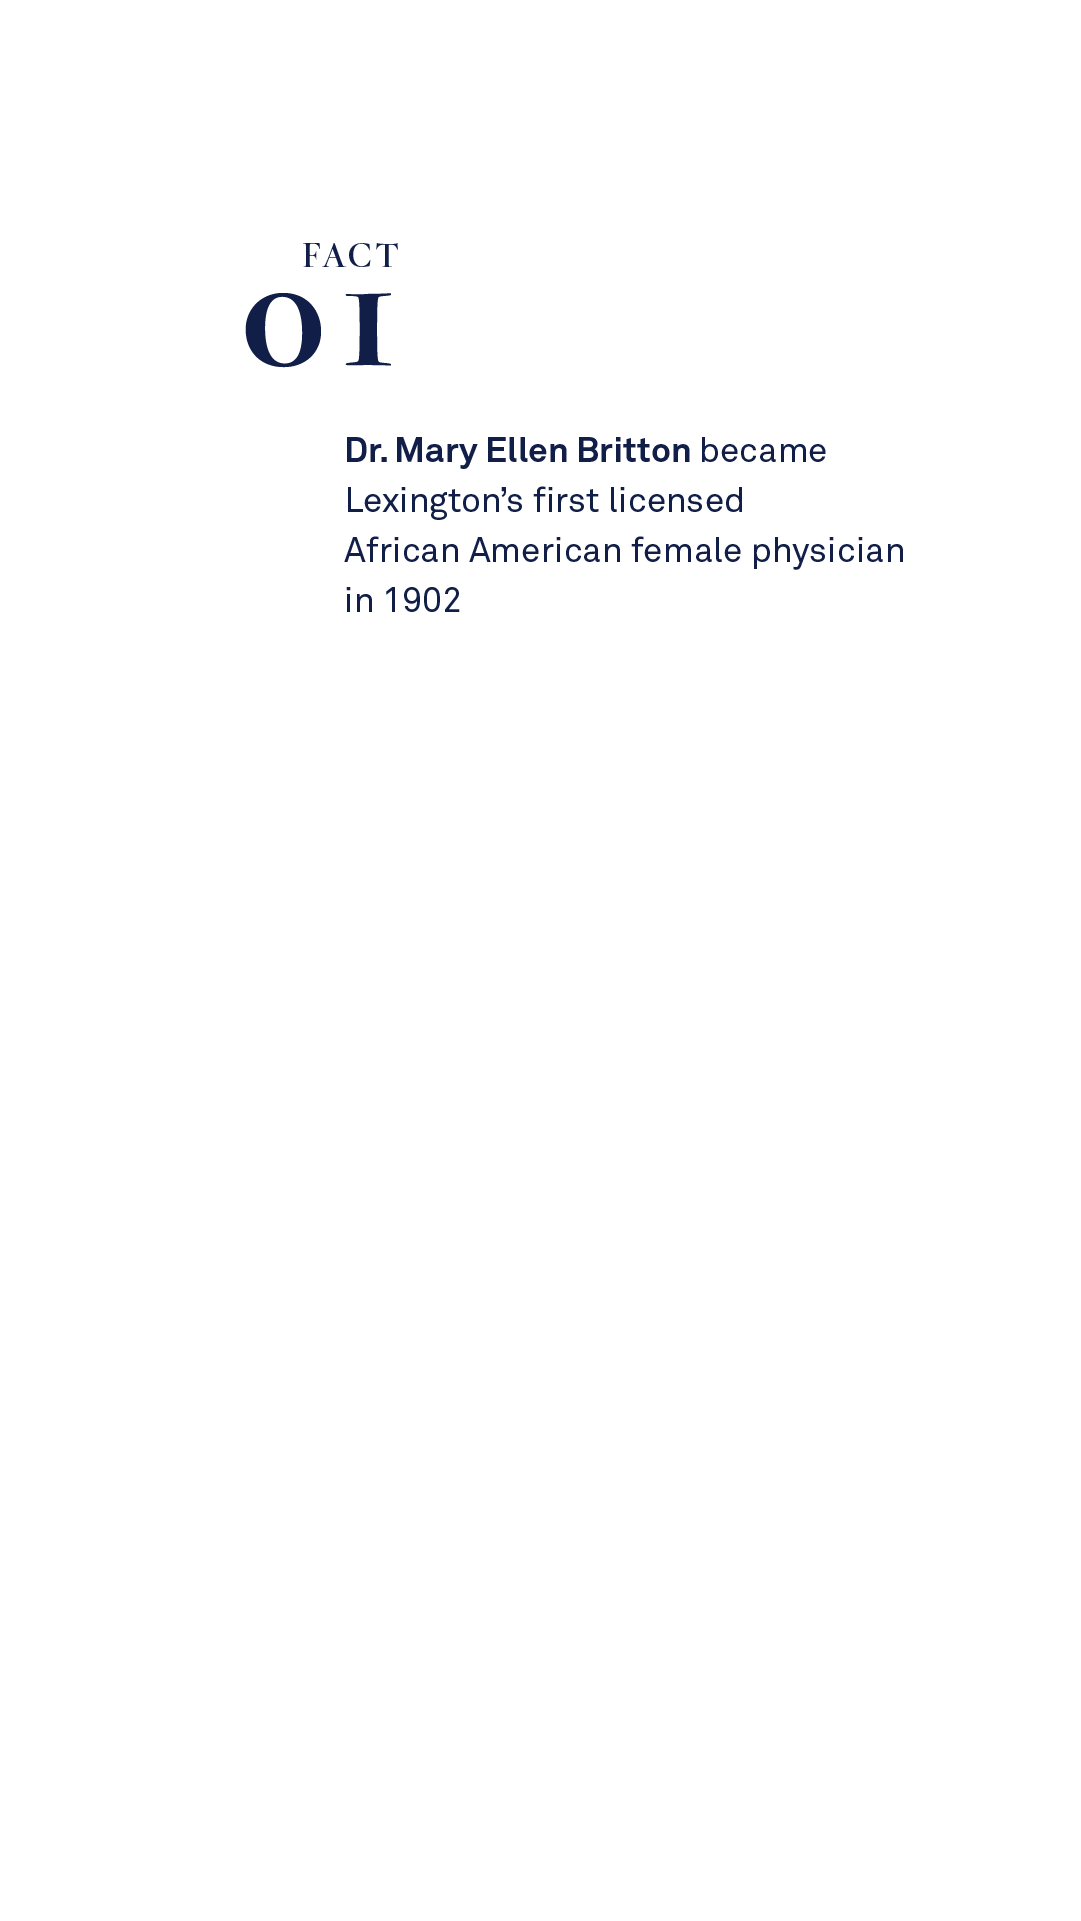
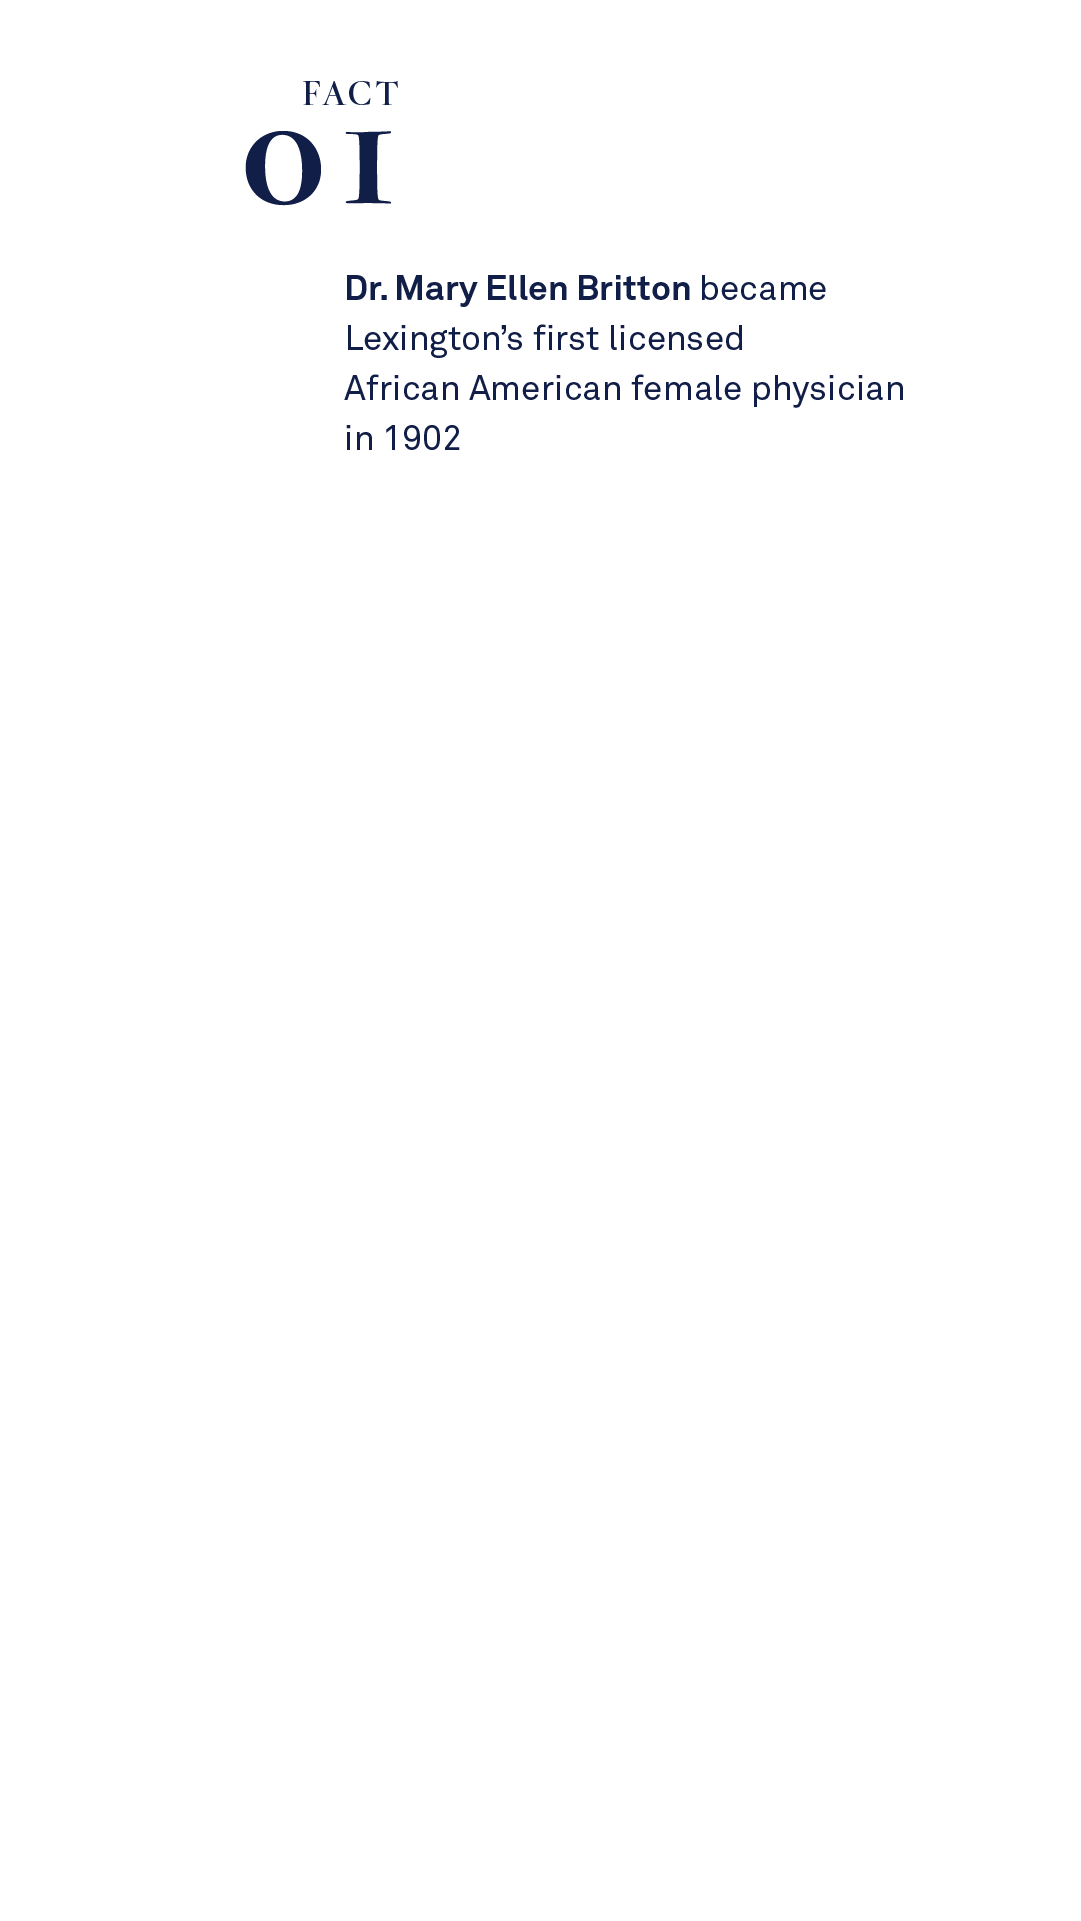
Update images to fix text positioning

Changed region(s): [[0.2137, 0.0312, 0.8242, 0.3123], [0.7937, 0.2811, 0.8242, 0.3123]]

diff --git a/index.html b/index.html
@@ -250,12 +250,12 @@
         </div>
 
         <div class="parallax__layer parallax__layer--base_2">
-          <img src="images/Image01.png" width="1080" height="1920" alt="" />
+          <img src="images/XImage01.png" width="1080" height="1920" alt="" />
           <!-- IMAGE 1 -->
         </div>
 
         <div class="parallax__layer parallax__layer--base_4">
-          <img src="images/Pattern01.png" width="1080" height="1920" alt="" />
+          <img src="images/XPattern01.png" width="1080" height="1920" alt="" />
           <!-- PATTERN 1 -->
         </div>
       </div>
@@ -268,7 +268,7 @@
         </div>
 
         <div class="parallax__layer parallax__layer--base_3">
-          <img src="images/Bkgd02.png" width="1080" height="1920" alt="" />
+          <img src="images/XBkgd02.png" width="1080" height="1920" alt="" />
           <!-- BANNER ANGLED W/ TRANSPARENT TOP -->
         </div>
       </div>
@@ -276,12 +276,12 @@
       <!-- GROUP 3 -->
       <div id="group3" class="parallax__group">
         <div class="parallax__layer parallax__layer--base_2">
-          <img src="images/Image02.png" width="1080" height="1920" alt="" />
+          <img src="images/XImage02.png" width="1080" height="1920" alt="" />
           <!-- IMAGE 2 -->
         </div>
 
         <div class="parallax__layer parallax__layer--base_3">
-          <img src="images/Pattern02.png" width="1080" height="1920" alt="" />
+          <img src="images/XPattern02.png" width="1080" height="1920" alt="" />
           <!-- PATTERN 2 -->
         </div>
       </div>
@@ -297,12 +297,12 @@
       <!-- GROUP 5 -->
       <div id="group5" class="parallax__group">
         <div class="parallax__layer parallax__layer--base_2">
-          <img src="images/Image03.png" width="1080" height="1920" alt="" />
+          <img src="images/XImage03.png" width="1080" height="1920" alt="" />
           <!-- IMAGE 3 -->
         </div>
 
         <div class="parallax__layer parallax__layer--base_4">
-          <img src="images/Bkgd04.png" width="1080" height="2500" alt="" />
+          <img src="images/XBkgd04.png" width="1080" height="2500" alt="" />
           <!-- BANNER TOP ANGLE -->
         </div>
       </div>
@@ -315,12 +315,12 @@
         </div>
 
         <div class="parallax__layer parallax__layer--base_2">
-          <img src="images/Image04.png" width="1080" height="1920" alt="" />
+          <img src="images/XImage04.png" width="1080" height="1920" alt="" />
           <!-- IMAGE 4 -->
         </div>
 
         <div class="parallax__layer parallax__layer--base_3">
-          <img src="images/Pattern04.png" width="1080" height="1920" alt="" />
+          <img src="images/XPattern04.png" width="1080" height="1920" alt="" />
           <!-- PATTERN 3 -->
         </div>
       </div>
@@ -336,12 +336,12 @@
       <!-- GROUP 8 -->
       <div id="group8" class="parallax__group">
         <div class="parallax__layer parallax__layer--base_2">
-          <img src="images/Image05.png" width="1080" height="1920" alt="" />
+          <img src="images/XImage05.png" width="1080" height="1920" alt="" />
           <!-- IMAGE 5 -->
         </div>
 
         <div class="parallax__layer parallax__layer--base_3">
-          <img src="images/Pattern05.png" width="1080" height="1920" alt="" />
+          <img src="images/XPattern05.png" width="1080" height="1920" alt="" />
           <!-- PATTERN 3 -->
         </div>
       </div>
@@ -354,7 +354,7 @@
         </div>
 
         <div class="parallax__layer parallax__layer--base_4">
-          <img src="images/Bkgd06.png" width="1080" height="1920" alt="" />
+          <img src="images/XBkgd06.png" width="1080" height="1920" alt="" />
           <!-- PATTERN 3 -->
         </div>
       </div>
